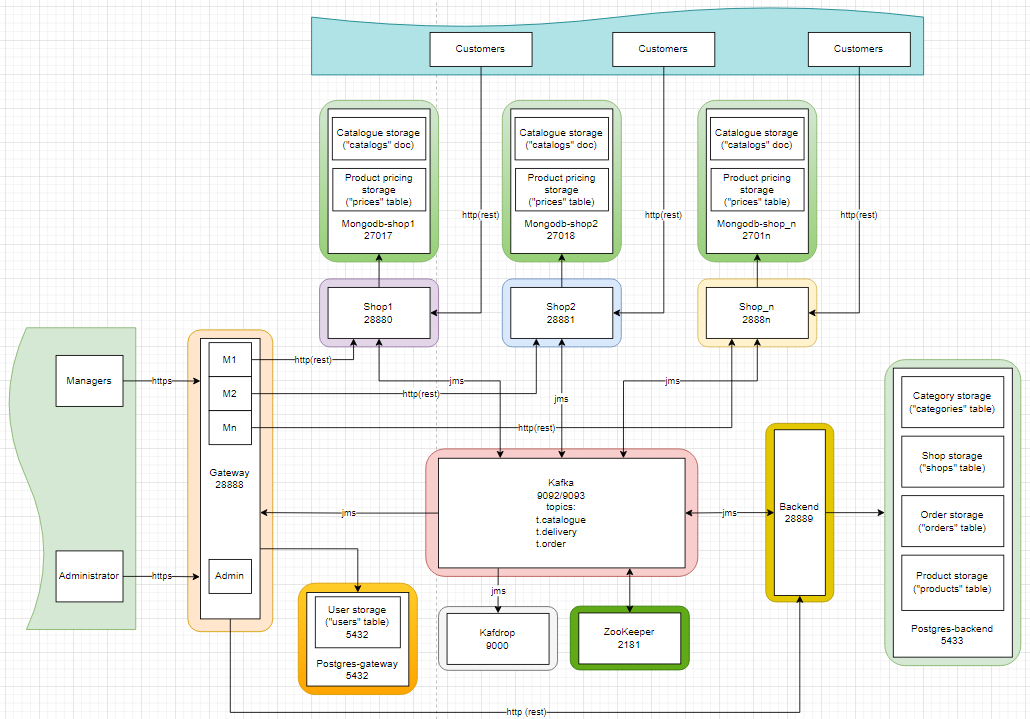
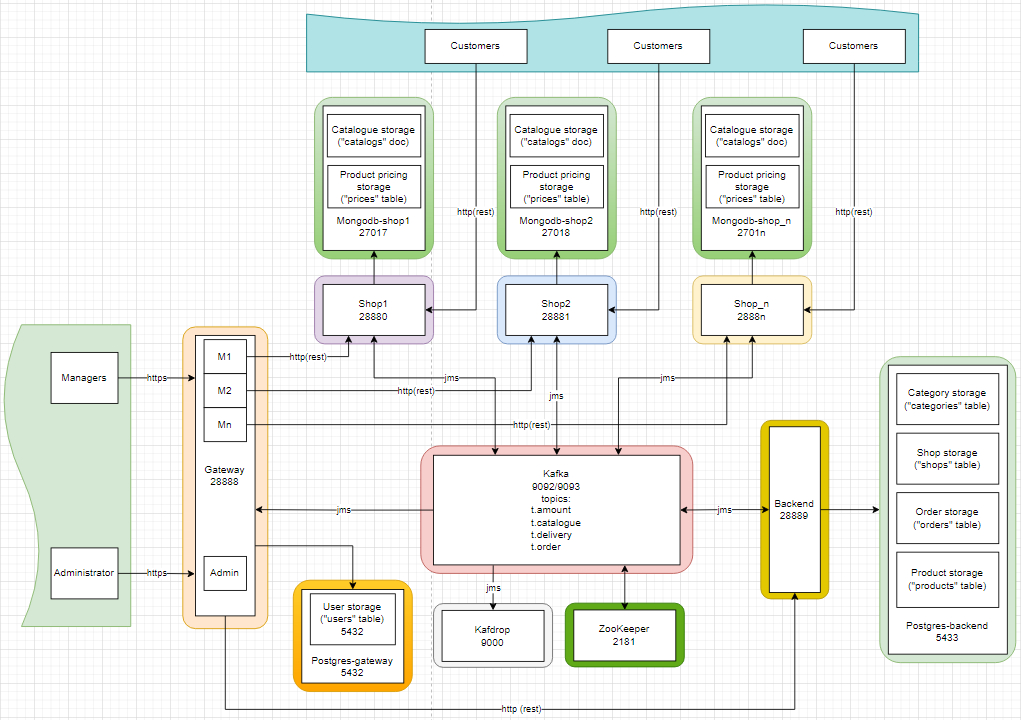
rework catalogue classes, from set product to list

Changed region(s): [[0.0, 0.0, 1.0, 1.0], [0.2733, 0.0306, 0.3036, 0.0918]]

diff --git a/gateway_service/src/main/resources/templates/catalogue-templates/catalogue.html b/gateway_service/src/main/resources/templates/catalogue-templates/catalogue.html
@@ -37,7 +37,7 @@
         <!-- END PAGE TITLE -->
         <div class="column">
             <form th:action="@{/catalogue}" th:object="${wrapper}" method="post">
-                <table th:if="${not #sets.isEmpty(catalogueFromStorage.getProducts())}">
+                <table th:if="${not #lists.isEmpty(catalogueFromStorage.getProducts())}">
                     <td>
                         <table style="float: left">
                             <tr>
@@ -73,7 +73,7 @@
                 </table>
                 <br>
                 <div>
-                    <button th:if="${not #sets.isEmpty(catalogueFromStorage.getProducts())}"
+                    <button th:if="${not #lists.isEmpty(catalogueFromStorage.getProducts())}"
                             class="btn btn-primary"><a style="color: white;text-decoration: none"
                                                        th:href="@{|/edit-catalogue/${shopServiceName}|}">Edit catalogue</a>
                     </button>
@@ -83,12 +83,12 @@
                         <span th:if="${message} != null" th:text="${#dates.createNow()}"></span>
                     </p>
                     <br>
-                    <button th:if="${not #sets.isEmpty(catalogueFromStorage.getProducts())}" type="submit"
+                    <button th:if="${not #lists.isEmpty(catalogueFromStorage.getProducts())}" type="submit"
                             class="btn btn-primary">Submit
                     </button>
                 </div>
             </form>
-            <div th:if="${#sets.isEmpty(catalogueFromStorage.products)}">
+            <div th:if="${#lists.isEmpty(catalogueFromStorage.products)}">
                 <h4>No storage data found</h4>
                 <br>
                 <div>

diff --git a/shop1_service/src/main/java/top/shop/shop1_service/service/CatalogueService.java b/shop1_service/src/main/java/top/shop/shop1_service/service/CatalogueService.java
@@ -14,8 +14,8 @@ import top.shop.shop1_service.repository.CatalogueRepository;
 import java.time.LocalDateTime;
 import java.util.Collections;
 import java.util.List;
-import java.util.Optional;
-import java.util.Set;
+import java.util.Map;
+import java.util.function.Function;
 import java.util.stream.Collectors;
 
 @Slf4j
@@ -30,12 +30,12 @@ public class CatalogueService {
     private final ModelMapper modelMapper;
 
     public CatalogueDto getCatalogueForCustomers() {
-        Set<ProductDto> updatedProducts = getCatalogueDto().getProducts()
+        List<ProductDto> updatedProducts = getCatalogueDto().getProducts()
                 .stream()
                 .filter(p -> productPricingService.productPricingExists(p.getServiceName()) &&
                         productPricingService.getProductPricingDto(p.getServiceName()).getPrice() != 0)
                 .map(productPricingService::updatePriceOfProductDto)
-                .collect(Collectors.toSet());
+                .toList();
 
         return CatalogueDto.builder()
                 .catalogueOnDate(LocalDateTime.now())
@@ -48,7 +48,9 @@ public class CatalogueService {
         Catalogue catalogue = Catalogue.builder()
                 .catalogueOnDate(catalogueDto.getCatalogueOnDate())
                 .shopServiceName(catalogueDto.getShopServiceName())
-                .products(catalogueDto.getProducts())
+                .products(catalogueDto.getProducts()
+                        .stream()
+                        .collect(Collectors.toMap(ProductDto::getServiceName, Function.identity())))
                 .build();
 
         catalogueRepository.save(catalogue);
@@ -58,39 +60,43 @@ public class CatalogueService {
     public Catalogue getCatalogue() {
         return catalogueRepository.findCatalogueByShopServiceName(serviceName)
                 .orElse(Catalogue.builder()
-                        .products(Collections.emptySet())
+                        .products(Collections.emptyMap())
                         .shopServiceName(serviceName)
                         .catalogueOnDate(LocalDateTime.now())
                         .build());
     }
 
     public CatalogueDto getCatalogueDto() {
-        return modelMapper.map(getCatalogue(), CatalogueDto.class);
+        Catalogue catalogue = getCatalogue();
+        CatalogueDto catalogueDto = modelMapper.map(catalogue, CatalogueDto.class);
+        catalogueDto.setProducts(catalogue.getProducts()
+                .values()
+                .stream()
+                .toList());
+        return catalogueDto;
     }
 
     public List<String> getProductServiceNameList() {
         return getCatalogue().getProducts()
+                .values()
                 .stream()
                 .map(ProductDto::getServiceName)
                 .toList();
     }
 
-    public void updateAmountProductInCatalogue(ProductAmountDto productAmountDto) {
+    public void updateAmountProductInCatalogue(ProductAmountDto pAmountDto) {
         Catalogue catalogue = getCatalogue();
-        if(catalogue.getProducts().isEmpty()) return;
-        Set<ProductDto> products = catalogue.getProducts();
-        Optional<ProductDto> product = products
-                .stream()
-                .filter(p-> p.getServiceName().equals(productAmountDto.getProductServiceName()))
-                .findFirst();
-        if (product.isPresent()) {
-            product.get().setAmount(productAmountDto.getAmount());
-            products.add(product.get());
+        if (catalogue.getProducts().isEmpty()) return;
 
-            catalogue.setProducts(products);
+        Map<String, ProductDto> products = catalogue.getProducts();
+        products.computeIfPresent(pAmountDto.getProductServiceName(), (s, pDto) -> {
+            pDto.setAmount(pAmountDto.getAmount());
+            return pDto;
+        });
+        catalogue.setProducts(products);
 
-            catalogueRepository.save(catalogue);
-        }
+        catalogueRepository.save(catalogue);
     }
 
 }
+

diff --git a/backend_service/src/main/java/top/shop/backend/service/ProductService.java b/backend_service/src/main/java/top/shop/backend/service/ProductService.java
@@ -6,11 +6,10 @@ import org.modelmapper.ModelMapper;
 import org.springframework.context.ApplicationEventPublisher;
 import org.springframework.http.HttpStatus;
 import org.springframework.stereotype.Service;
-import top.shop.backend.config.kafkaconfig.ProductAmountProducer;
 import top.shop.backend.dto.product.ProductAmountDto;
+import top.shop.backend.dto.product.ProductDto;
 import top.shop.backend.entity.Category;
 import top.shop.backend.entity.Product;
-import top.shop.backend.dto.product.ProductDto;
 import top.shop.backend.exceptionhandler.exception.ProductException;
 import top.shop.backend.repository.ProductRepository;
 import top.shop.backend.service.event.ProductAmountEvent;
@@ -18,8 +17,6 @@ import top.shop.backend.util.wrapper.ProductWrapper;
 
 import java.time.LocalDateTime;
 import java.util.List;
-import java.util.Set;
-import java.util.stream.Collectors;
 
 @Slf4j
 @Service
@@ -28,7 +25,6 @@ public class ProductService {
 
     private final ProductRepository productRepository;
     private final CategoryService categoryService;
-    private final ProductAmountProducer productAmountProducer;
     private final ModelMapper modelMapper;
     private final ApplicationEventPublisher eventPublisher;
 
@@ -86,27 +82,27 @@ public class ProductService {
                 .toList();
     }
 
-    public Set<Product> convertProductSetFromDto(Set<ProductDto> productDtoList) {
+    public List<Product> convertProductListFromDto(List<ProductDto> productDtoList) {
         return productDtoList.stream()
                 .map(pDto -> getProduct(pDto.getServiceName()))
-                .collect(Collectors.toSet());
+                .toList();
     }
 
-    public Set<ProductDto> convertProductDtoSetFromProducts(Set<Product> products) {
+    public List<ProductDto> convertProductDtoListFromProducts(List<Product> products) {
         return products.stream()
                 .map(p -> modelMapper.map(p, ProductDto.class))
-                .collect(Collectors.toSet());
+                .toList();
     }
 
     public ProductWrapper getProductWrapper() {
         return new ProductWrapper(getProductDtoList());
     }
 
-    public Set<Product> getProductsByListServiceNames(List<String> productServiceNames) {
+    public List<Product> getProductsByListServiceNames(List<String> productServiceNames) {
         return productRepository.findAll()
                 .stream()
                 .filter(p -> productServiceNames.contains(p.getServiceName()))
-                .collect(Collectors.toSet());
+                .toList();
     }
 
     public ProductWrapper getProductWrapperWithoutCatalogue(List<String> catalogueProductNames) {

diff --git a/backend_service/src/main/java/top/shop/backend/service/CatalogueService.java b/backend_service/src/main/java/top/shop/backend/service/CatalogueService.java
@@ -17,8 +17,9 @@ import top.shop.backend.repository.CatalogueRepository;
 import top.shop.backend.service.event.CatalogueEvent;
 
 import java.time.LocalDateTime;
-import java.util.Set;
-import java.util.stream.Collectors;
+import java.util.Collections;
+import java.util.Comparator;
+import java.util.List;
 
 @Service
 @RequiredArgsConstructor
@@ -38,7 +39,7 @@ public class CatalogueService {
 
     public CatalogueDto getCatalogueDto(String shopServiceName) {
         Catalogue catalogue = getCatalogue(shopServiceName);
-        Set<ProductDto> productDtoSet = productService.convertProductDtoSetFromProducts(catalogue.getProducts());
+        List<ProductDto> productDtoSet = productService.convertProductDtoListFromProducts(catalogue.getProducts());
 
         return CatalogueDto.builder()
                 .catalogueOnDate(LocalDateTime.now())
@@ -50,7 +51,7 @@ public class CatalogueService {
     public Catalogue createCatalogue(CatalogueDto catalogueDto) {
         Catalogue catalogue = new Catalogue();
         catalogue.setCatalogueOnDate(LocalDateTime.now());
-        catalogue.setProducts(productService.convertProductSetFromDto(catalogueDto.getProducts()));
+        catalogue.setProducts(productService.convertProductListFromDto(catalogueDto.getProducts()));
         catalogue.setShop(shopService.getShop(catalogueDto.getShopServiceName()));
 
         return catalogueRepository.save(catalogue);
@@ -59,11 +60,12 @@ public class CatalogueService {
     public Catalogue updateCatalogue(ProductServiceNameDto productServiceNameDto) {
         Catalogue catalogue = getCatalogue(productServiceNameDto.getShopServiceName());
 
-        Set<Product> products = catalogue.getProducts()
+        List<Product> products = new java.util.ArrayList<>(catalogue.getProducts()
                 .stream()
                 .filter(p -> !productServiceNameDto.getDeleteProductServiceNames().contains(p.getServiceName()))
-                .collect(Collectors.toSet());
+                .toList());
         products.addAll(productService.getProductsByListServiceNames(productServiceNameDto.getAddProductServiceNames()));
+        products.sort(Comparator.comparing(Product::getServiceName));
 
         catalogue.setProducts(products);
 

diff --git a/gateway_service/src/main/java/top/shop/gateway/service/CatalogueService.java b/gateway_service/src/main/java/top/shop/gateway/service/CatalogueService.java
@@ -36,7 +36,7 @@ public class CatalogueService {
         } catch (HttpClientErrorException e) {
             if (e.getRawStatusCode() == 404)
                 return CatalogueDto.builder()
-                        .products(Collections.emptySet())
+                        .products(Collections.emptyList())
                         .catalogueOnDate(LocalDateTime.now())
                         .shopServiceName(shopNameService)
                         .build();
@@ -52,7 +52,7 @@ public class CatalogueService {
                 .products(productWrapper.getProductDtoList()
                         .stream()
                         .filter(p -> Arrays.stream(productServiceName).anyMatch(n -> p.getServiceName().equals(n)))
-                        .collect(Collectors.toSet()))
+                        .toList())
                 .build();
     }
 

diff --git a/backend_service/src/main/java/top/shop/backend/dto/CatalogueDto.java b/backend_service/src/main/java/top/shop/backend/dto/CatalogueDto.java
@@ -6,7 +6,7 @@ import top.shop.backend.entity.Catalogue;
 
 import java.io.Serializable;
 import java.time.LocalDateTime;
-import java.util.Set;
+import java.util.List;
 
 /**
  * A DTO for the {@link Catalogue} entity
@@ -19,5 +19,5 @@ import java.util.Set;
 public class CatalogueDto implements Serializable {
     private LocalDateTime catalogueOnDate;
     private String shopServiceName;
-    private Set<ProductDto> products;
+    private List<ProductDto> products;
 }

diff --git a/gateway_service/src/main/java/top/shop/gateway/dto/CatalogueDto.java b/gateway_service/src/main/java/top/shop/gateway/dto/CatalogueDto.java
@@ -5,7 +5,7 @@ import top.shop.gateway.dto.product.ProductDto;
 
 import java.io.Serializable;
 import java.time.LocalDateTime;
-import java.util.Set;
+import java.util.List;
 
 @AllArgsConstructor
 @NoArgsConstructor
@@ -15,5 +15,5 @@ import java.util.Set;
 public class CatalogueDto implements Serializable {
     private LocalDateTime catalogueOnDate;
     private String shopServiceName;
-    private Set<ProductDto> products;
+    private List<ProductDto> products;
 }

diff --git a/shop1_service/src/main/java/top/shop/shop1_service/dto/CatalogueDto.java b/shop1_service/src/main/java/top/shop/shop1_service/dto/CatalogueDto.java
@@ -5,6 +5,7 @@ import top.shop.shop1_service.dto.product.ProductDto;
 
 import java.io.Serializable;
 import java.time.LocalDateTime;
+import java.util.List;
 import java.util.Set;
 
 @AllArgsConstructor
@@ -15,5 +16,5 @@ import java.util.Set;
 public class CatalogueDto implements Serializable {
     private LocalDateTime catalogueOnDate;
     private String shopServiceName;
-    private Set<ProductDto> products;
+    private List<ProductDto> products;
 }

diff --git a/shop1_service/src/main/java/top/shop/shop1_service/entity/Catalogue.java b/shop1_service/src/main/java/top/shop/shop1_service/entity/Catalogue.java
@@ -6,7 +6,7 @@ import org.springframework.data.mongodb.core.mapping.Document;
 import top.shop.shop1_service.dto.product.ProductDto;
 
 import java.time.LocalDateTime;
-import java.util.Set;
+import java.util.Map;
 
 @Getter
 @Setter
@@ -19,5 +19,5 @@ public class Catalogue {
     @Id
     private String shopServiceName;
     private LocalDateTime catalogueOnDate;
-    private Set<ProductDto> products;
+    private Map<String, ProductDto> products;
 }

diff --git a/backend_service/src/main/java/top/shop/backend/entity/Catalogue.java b/backend_service/src/main/java/top/shop/backend/entity/Catalogue.java
@@ -7,7 +7,7 @@ import lombok.ToString;
 
 import javax.persistence.*;
 import java.time.LocalDateTime;
-import java.util.Set;
+import java.util.List;
 
 @Getter
 @Setter
@@ -30,5 +30,5 @@ public class Catalogue {
             joinColumns = @JoinColumn(name = "catalogue_id"),
             inverseJoinColumns = @JoinColumn(name = "product_id"))
     @ToString.Exclude
-    private Set<Product> products;
+    private List<Product> products;
 }
